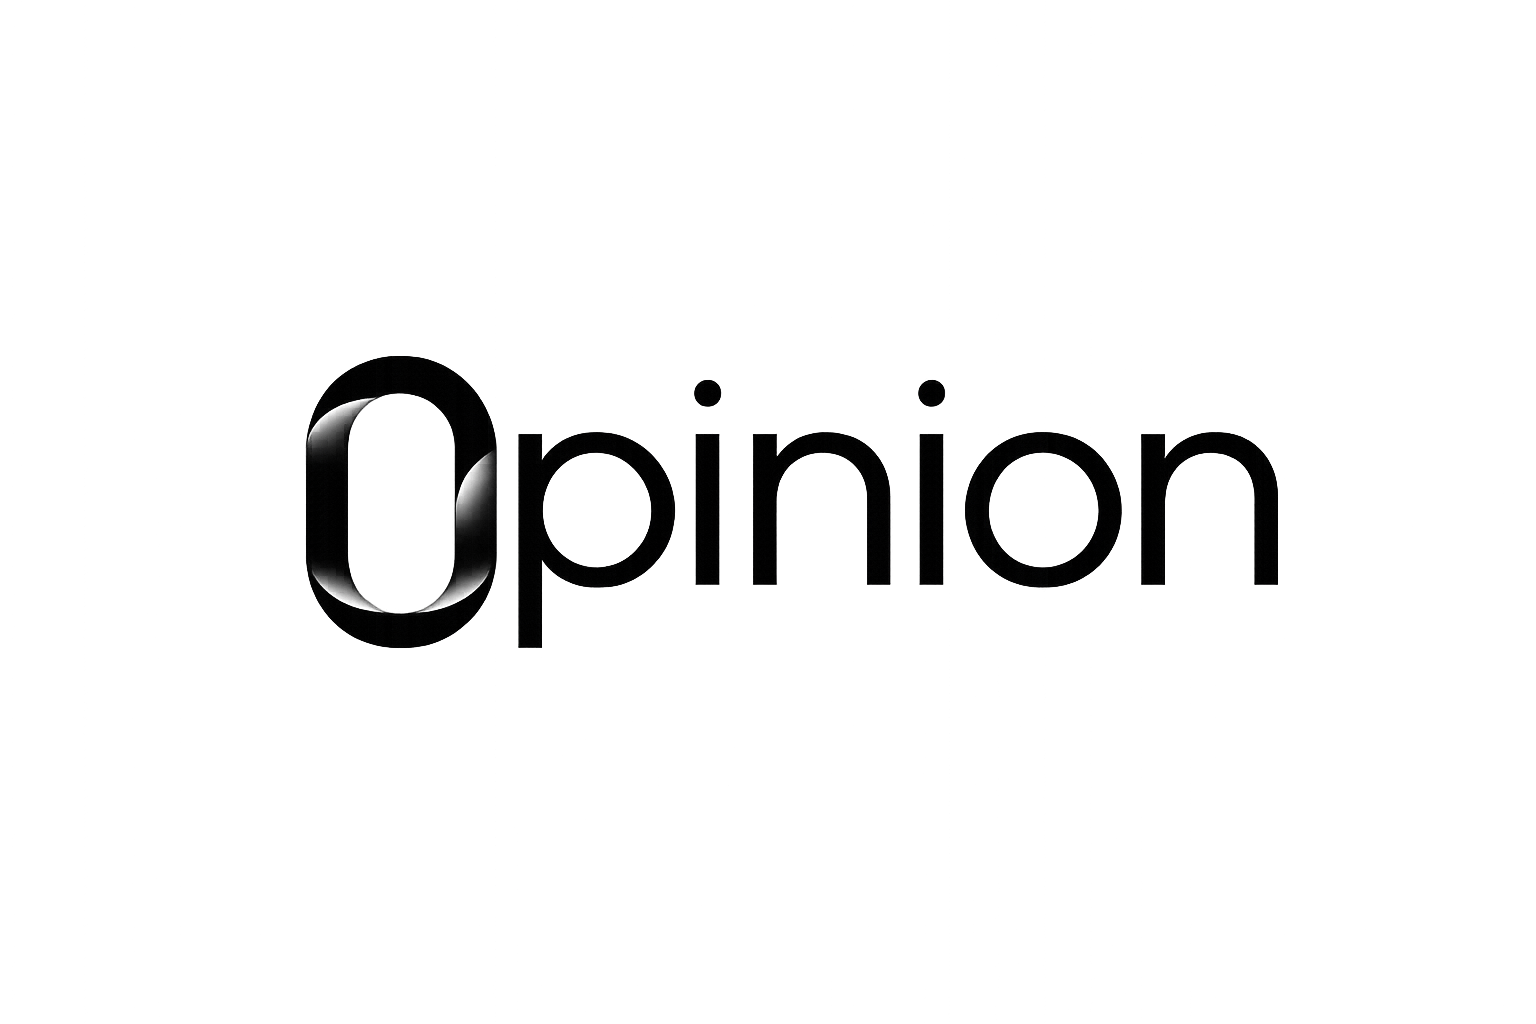
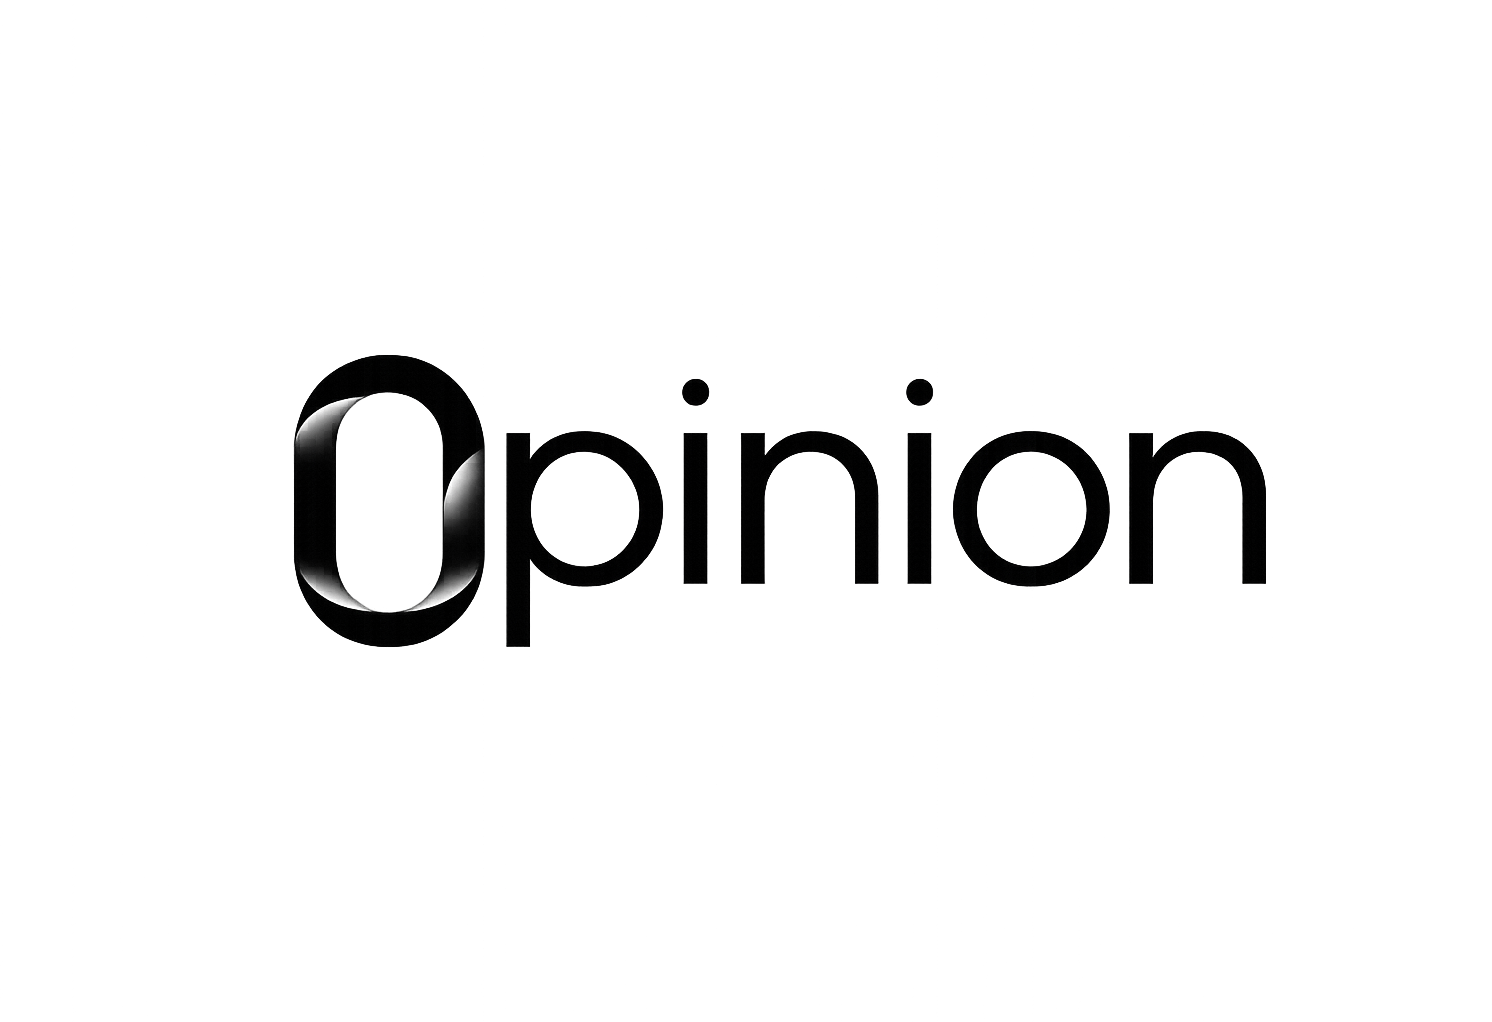
Crop transparent padding from title.png and adjust heights

diff --git a/0pinion_app/lib/features/feed/screens/home_screen.dart b/0pinion_app/lib/features/feed/screens/home_screen.dart
@@ -40,10 +40,10 @@ class _HomeScreenState extends ConsumerState<HomeScreen>
 
     return Scaffold(
       appBar: AppBar(
-        toolbarHeight: 120,
+        toolbarHeight: 80,
         title: Image.asset(
           'assets/title.png',
-          height: 100,
+          height: 56,
           fit: BoxFit.contain,
           color: primaryText,
         ),

diff --git a/0pinion_app/lib/features/auth/screens/splash_screen.dart b/0pinion_app/lib/features/auth/screens/splash_screen.dart
@@ -84,7 +84,7 @@ class _SplashScreenState extends ConsumerState<SplashScreen>
                   // Wordmark
                   Image.asset(
                     'assets/title.png',
-                    height: 120,
+                    height: 80,
                     fit: BoxFit.contain,
                     color: primaryText,
                   ),

diff --git a/0pinion_app/crop.py b/0pinion_app/crop.py
@@ -1,0 +1,23 @@
+from PIL import Image, ImageChops
+
+def trim(im):
+    bg = Image.new(im.mode, im.size, im.getpixel((0,0)))
+    diff = ImageChops.difference(im, bg)
+    diff = ImageChops.add(diff, diff, 2.0, -100)
+    bbox = diff.getbbox()
+    if bbox:
+        return im.crop(bbox)
+    return im
+
+def trim_transparency(image_path):
+    im = Image.open(image_path)
+    # Get the bounding box of the non-transparent alpha channel
+    bbox = im.getbbox()
+    if bbox:
+        im = im.crop(bbox)
+        im.save(image_path)
+        print("Image cropped successfully")
+    else:
+        print("No cropping needed")
+
+trim_transparency('assets/title.png')
